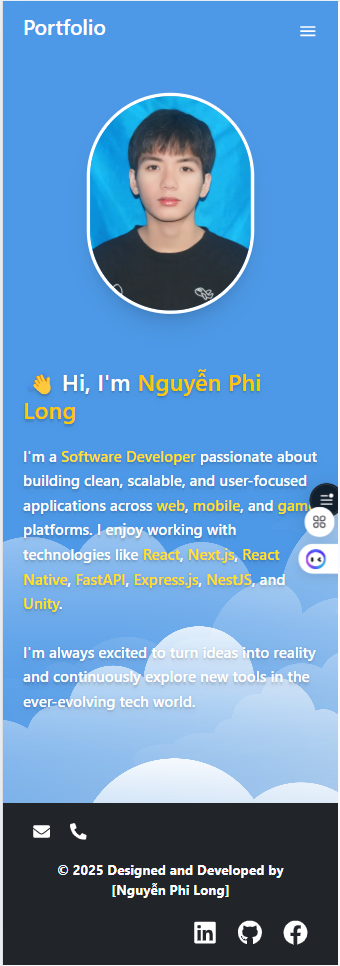
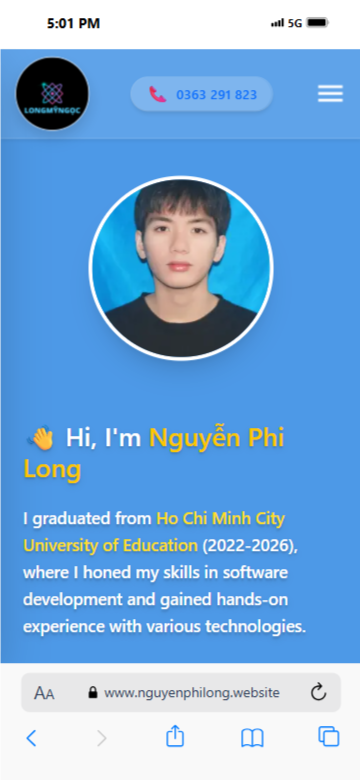
Insert flag language

diff --git a/src/components/Layout/Navbar/MobileNavbar.tsx b/src/components/Layout/Navbar/MobileNavbar.tsx
@@ -20,15 +20,12 @@ const MobileSidebar: React.FC<MobileSidebarProps> = ({ isOpen, onClose }) => {
 
     return (
         <>
-            {/* Sidebar chính */}
             <div
-                className={`fixed top-0 left-0 h-screen w-4/5 max-w-xs bg-white text-black shadow-lg transform transition-transform duration-300 ease-in-out z-[2147483647] rounded-r-2xl flex flex-col ${
-                    isOpen ? "translate-x-0" : "-translate-x-full"
-                }`}
+                className={`fixed top-0 left-0 h-screen w-4/5 max-w-xs bg-white text-black shadow-lg transform transition-transform duration-300 ease-in-out z-[2147483647] rounded-r-2xl flex flex-col ${isOpen ? "translate-x-0" : "-translate-x-full"
+                    }`}
             >
-                {/* Header với logo, số điện thoại, nút close */}
-                <div className="flex items-center justify-between px-4 py-3 border-b border-gray-300 gap-2 flex-shrink-0">
-                    {/* Logo */}
+                {/* Header */}
+                <header className="flex items-center justify-between px-4 py-3 bg-gray-100 border-b border-gray-300 gap-2 flex-shrink-0">
                     <div className="w-12 h-12 relative rounded-full overflow-hidden flex-shrink-0">
                         <Image
                             src="/assets/Logo.png"
@@ -37,16 +34,12 @@ const MobileSidebar: React.FC<MobileSidebarProps> = ({ isOpen, onClose }) => {
                             objectFit="contain"
                         />
                     </div>
-
-                    {/* Số điện thoại */}
                     <a
                         href="tel:0363291823"
                         className="flex items-center gap-2 text-yellow-500 font-semibold text-sm whitespace-nowrap hover:text-yellow-600 transition"
                     >
                         📞 0363 291 823
                     </a>
-
-                    {/* Nút đóng */}
                     <button
                         onClick={onClose}
                         className="text-gray-600 hover:text-red-500 transition text-2xl"
@@ -54,9 +47,9 @@ const MobileSidebar: React.FC<MobileSidebarProps> = ({ isOpen, onClose }) => {
                     >
                         <Close fontSize="large" />
                     </button>
-                </div>
+                </header>
 
-                {/* Danh sách menu */}
+                {/* Body */}
                 <nav className="flex-1 overflow-y-auto px-4 py-6 space-y-4">
                     {menuItems.map((item) => (
                         <Link
@@ -70,9 +63,22 @@ const MobileSidebar: React.FC<MobileSidebarProps> = ({ isOpen, onClose }) => {
                         </Link>
                     ))}
                 </nav>
+
+                {/* Footer */}
+                <footer className="px-4 py-3 bg-gray-100 border-t border-gray-300 flex items-center justify-around text-sm">
+                    <button className="flex items-center gap-2 text-yellow-600 font-medium">
+                        <span className="fi fi-vn rounded-sm" style={{ width: 24, height: 16 }} />
+                        <span>Vietnamese</span>
+                    </button>
+                    <button className="flex items-center gap-2 text-yellow-600 font-medium">
+                        <span className="fi fi-gb rounded-sm" style={{ width: 24, height: 16 }} />
+                        <span>English</span>
+                    </button>
+                </footer>
+
             </div>
 
-            {/* Overlay nền đen mờ */}
+            {/* Overlay */}
             {isOpen && (
                 <div
                     className="fixed inset-0 bg-black/50 backdrop-blur-sm z-[998]"

diff --git a/src/app/layout.tsx b/src/app/layout.tsx
@@ -2,6 +2,7 @@ import type { Metadata } from "next";
 import { Geist, Geist_Mono } from "next/font/google";
 import "./globals.css";
 import "bootstrap/dist/css/bootstrap.min.css";
+import "flag-icons/css/flag-icons.min.css";
 
 const geistSans = Geist({
   variable: "--font-geist-sans",
